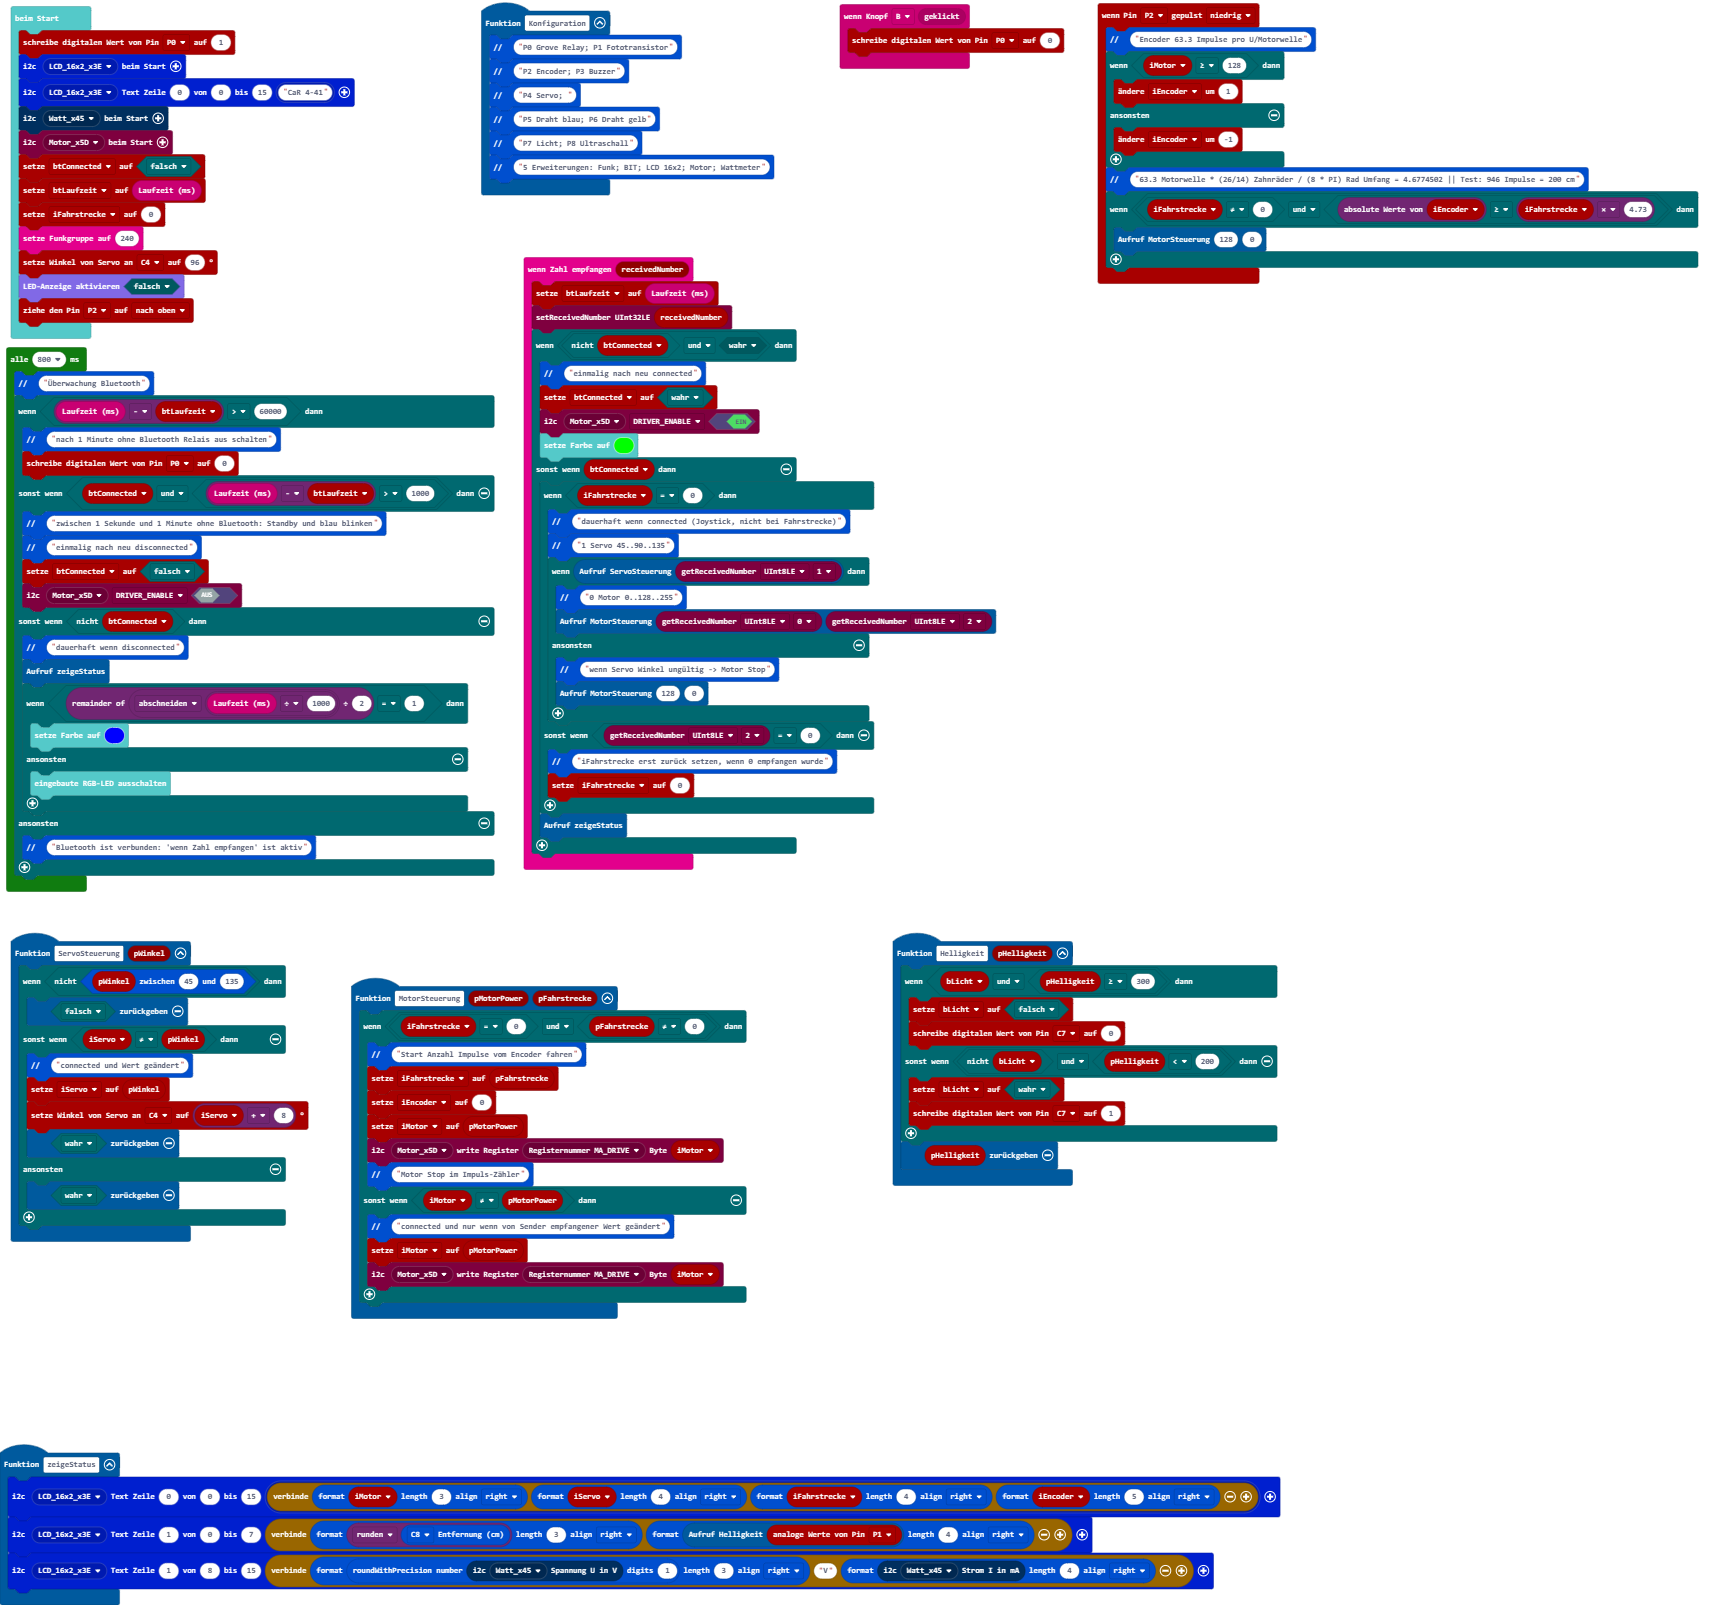
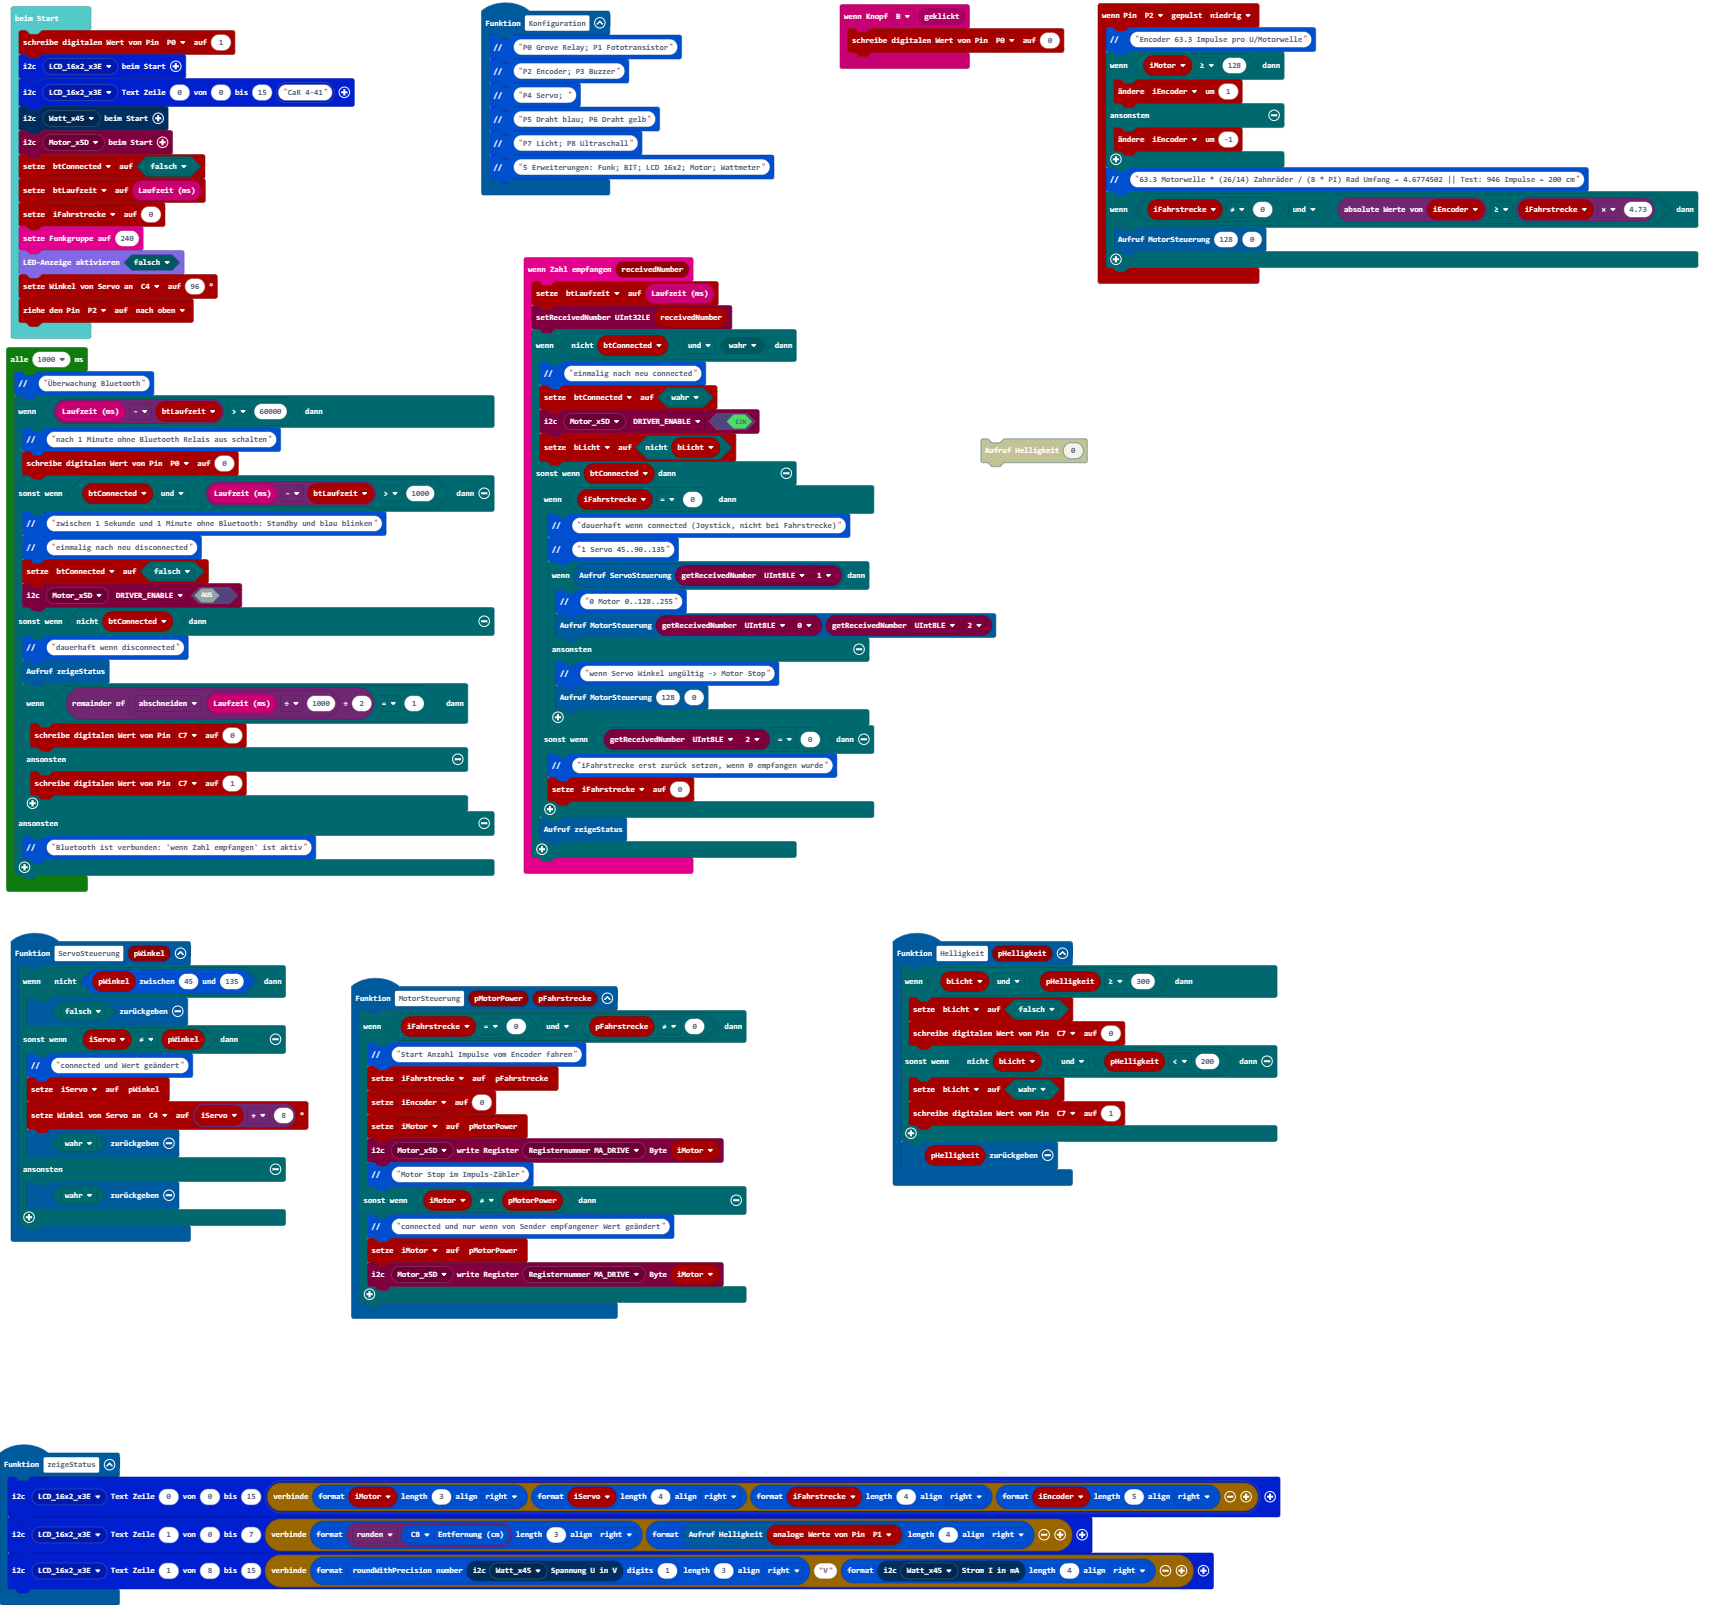
Aktualisiere main.blocks, main.ts

diff --git a/main.ts b/main.ts
@@ -5,7 +5,7 @@ radio.onReceivedNumber(function (receivedNumber) {
         bit.comment("einmalig nach neu connected")
         btConnected = true
         qwiicmotor.controlRegister(qwiicmotor.qwiicmotor_eADDR(qwiicmotor.eADDR.Motor_x5D), qwiicmotor.eControl.DRIVER_ENABLE, true)
-        basic.setLedColor(0x00ff00)
+        bLicht = !(bLicht)
     } else if (btConnected) {
         if (iFahrstrecke == 0) {
             bit.comment("dauerhaft wenn connected (Joystick, nicht bei Fahrstrecke)")
@@ -88,10 +88,10 @@ function ServoSteuerung (pWinkel: number) {
         return true
     }
 }
-let bLicht = false
 let iServo = 0
 let iEncoder = 0
 let iMotor = 0
+let bLicht = false
 let iFahrstrecke = 0
 let btLaufzeit = 0
 let btConnected = false
@@ -104,10 +104,10 @@ btConnected = false
 btLaufzeit = input.runningTime()
 iFahrstrecke = 0
 radio.setGroup(240)
-pins.servoWritePin(AnalogPin.C4, 96)
 led.enable(false)
+pins.servoWritePin(AnalogPin.C4, 96)
 pins.setPull(DigitalPin.P2, PinPullMode.PullUp)
-loops.everyInterval(800, function () {
+loops.everyInterval(1000, function () {
     bit.comment("Überwachung Bluetooth")
     if (input.runningTime() - btLaufzeit > 60000) {
         bit.comment("nach 1 Minute ohne Bluetooth Relais aus schalten")
@@ -121,9 +121,9 @@ loops.everyInterval(800, function () {
         bit.comment("dauerhaft wenn disconnected")
         zeigeStatus()
         if (Math.trunc(input.runningTime() / 1000) % 2 == 1) {
-            basic.setLedColor(0x0000ff)
+            pins.digitalWritePin(DigitalPin.C7, 0)
         } else {
-            basic.turnRgbLedOff()
+            pins.digitalWritePin(DigitalPin.C7, 1)
         }
     } else {
         bit.comment("Bluetooth ist verbunden: 'wenn Zahl empfangen' ist aktiv")
